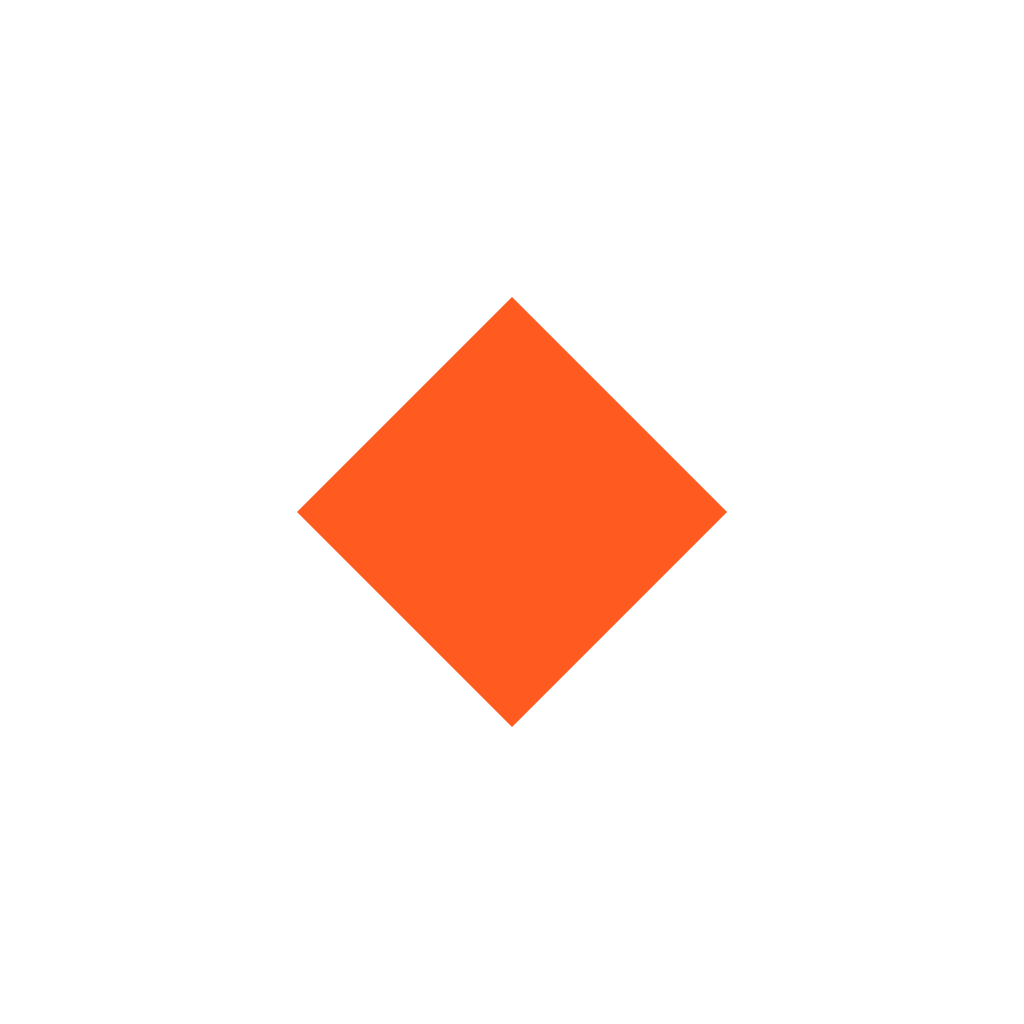
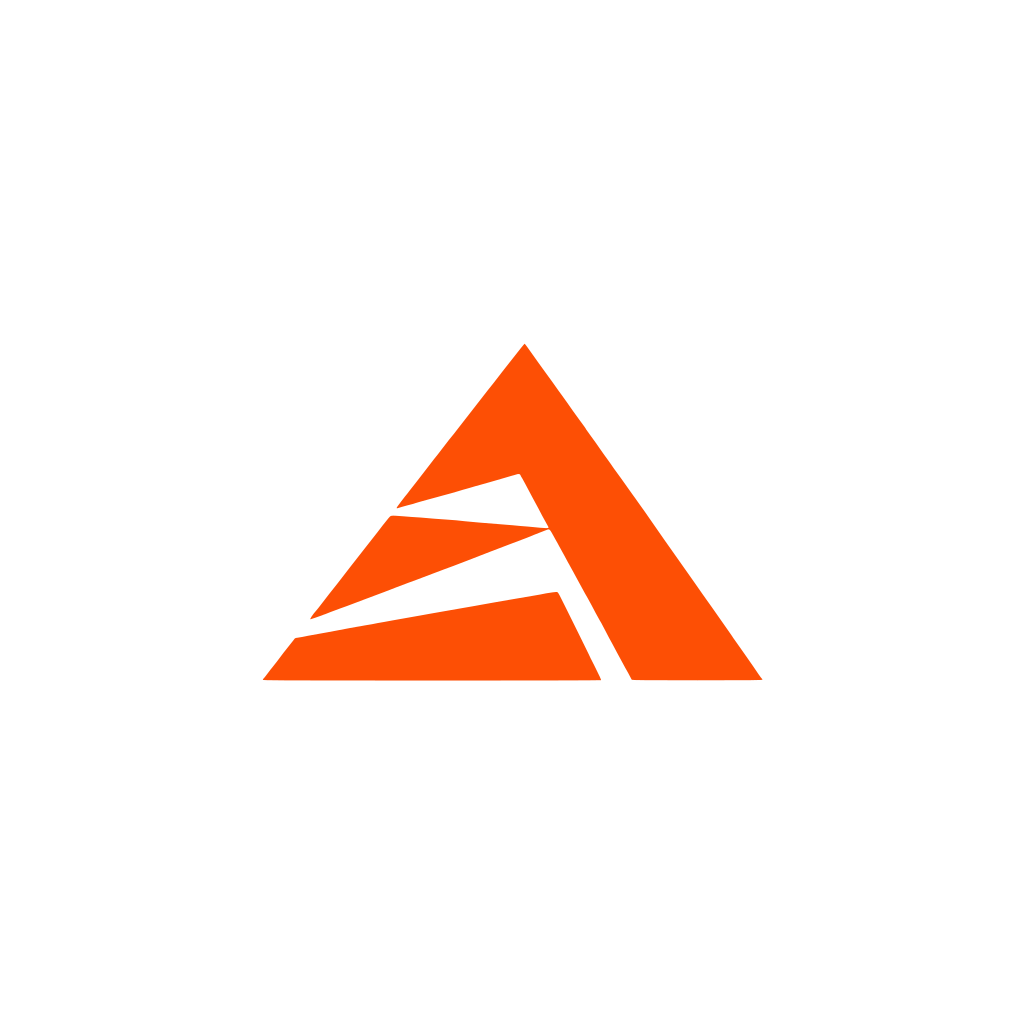
App nas lojas: nome Groscove Ultra e ícones da marca oficial
Decisão do responsável (30/10/2026): o app aparece nas lojas como "Groscove Ultra", o mesmo nome
da web (slug do EAS groscove-ultra, ainda antes do eas init). Ícone, adaptive icon, splash,
ícone de notificação e ficha do Google Play agora saem dos SVGs oficiais em docs/brand/, com o
mesmo fundo dos ícones da web. O esquema gchero:// e o marcador GCHeroApp do user agent são
internos e ficam.

Claude-Session: https://claude.ai/code/session_014zpciBbkBWGYkxepfYQZmJ

Changed region(s): [[0.25, 0.2812, 0.75, 0.7188]]

diff --git a/mobile/app.config.ts b/mobile/app.config.ts
@@ -2,13 +2,13 @@ import { existsSync } from "node:fs";
 import path from "node:path";
 import type { ConfigContext, ExpoConfig } from "expo/config";
 
-// Casca das lojas do GC Hero: a web de produção numa WebView, com login nativo (Google pelo navegador
+// Casca das lojas do Groscove Ultra: a web de produção numa WebView, com login nativo (Google pelo navegador
 // do sistema, Sign in with Apple), compartilhar do sistema e tela própria sem conexão.
 // Decisões e lições do Quantso: ../docs/decisions/app-nas-lojas.md. Publicação: ../docs/lojas.md.
 
 // Irreversível depois do primeiro envio a qualquer loja (Apple e Google não deixam trocar).
 const APP_ID = "com.groscove.ultra";
-// Endereço da web que a casca abre; muda com o domínio da marca GC Hero (EAS env por perfil).
+// Endereço da web que a casca abre; muda com o domínio definitivo (EAS env por perfil).
 const WEB_URL = process.env.EXPO_PUBLIC_WEB_URL ?? "https://ultra-hero.vercel.app";
 // Preenchidos depois do `eas init` na conta Expo do Quantso (não são segredo; ficam no código porque o
 // EAS resolve esta config na máquina de quem roda `eas build`, antes de ler as variáveis da nuvem).
@@ -16,7 +16,8 @@ const WEB_URL = process.env.EXPO_PUBLIC_WEB_URL ?? "https://ultra-hero.vercel.ap
 const EAS_PROJECT_ID: string | undefined = undefined;
 const EXPO_OWNER: string | undefined = undefined;
 
-const OBSIDIAN = "#0B0B0B";
+// mesmo fundo dos ícones da web (public/icons)
+const OBSIDIAN = "#111111";
 const ORANGE = "#FF5A1F";
 
 // Push no Android passa pelo FCM: sem o google-services.json do projeto Firebase o build fica verde
@@ -30,8 +31,8 @@ if (process.env.EAS_BUILD_PROFILE === "production" && !hasGoogleServices) {
 
 export default ({ config }: ConfigContext): ExpoConfig => ({
   ...config,
-  name: "GC Hero",
-  slug: "gc-hero",
+  name: "Groscove Ultra",
+  slug: "groscove-ultra",
   ...(EXPO_OWNER ? { owner: EXPO_OWNER } : {}),
   scheme: "gchero",
   // versão que a pessoa vê; o número do build vem do EAS (appVersionSource remote)
@@ -51,9 +52,9 @@ export default ({ config }: ConfigContext): ExpoConfig => ({
     config: { usesNonExemptEncryption: false },
     infoPlist: {
       // o <input type="file"> da web (foto de perfil, post, receita) abre câmera e fotos
-      NSCameraUsageDescription: "O GC Hero usa a câmera quando você escolhe tirar uma foto para o perfil ou para um post.",
-      NSPhotoLibraryUsageDescription: "O GC Hero acessa suas fotos quando você escolhe uma imagem para o perfil ou para um post.",
-      NSMicrophoneUsageDescription: "O GC Hero usa o microfone quando você grava um vídeo para um post.",
+      NSCameraUsageDescription: "O Groscove Ultra usa a câmera quando você escolhe tirar uma foto para o perfil ou para um post.",
+      NSPhotoLibraryUsageDescription: "O Groscove Ultra acessa suas fotos quando você escolhe uma imagem para o perfil ou para um post.",
+      NSMicrophoneUsageDescription: "O Groscove Ultra usa o microfone quando você grava um vídeo para um post.",
     },
     // A casca não coleta dado próprio; os rótulos de privacidade da loja descrevem o que a web coleta.
     // Razões das APIs exigidas pela Apple desde 05/2024 (UserDefaults e data de arquivo, usadas pelo RN).

diff --git a/mobile/src/strings.ts b/mobile/src/strings.ts
@@ -4,17 +4,17 @@ export type Strings = { offlineTitle: string; offlineBody: string; retry: string
 const STRINGS: Record<"pt-BR" | "en" | "es", Strings> = {
   "pt-BR": {
     offlineTitle: "Sem conexão",
-    offlineBody: "Não foi possível abrir o GC Hero. Confira a internet e tente de novo.",
+    offlineBody: "Não foi possível abrir o Groscove Ultra. Confira a internet e tente de novo.",
     retry: "Tentar de novo",
   },
   en: {
     offlineTitle: "No connection",
-    offlineBody: "We couldn't open GC Hero. Check your internet connection and try again.",
+    offlineBody: "We couldn't open Groscove Ultra. Check your internet connection and try again.",
     retry: "Try again",
   },
   es: {
     offlineTitle: "Sin conexión",
-    offlineBody: "No pudimos abrir GC Hero. Revisa tu conexión a internet e inténtalo de nuevo.",
+    offlineBody: "No pudimos abrir Groscove Ultra. Revisa tu conexión a internet e inténtalo de nuevo.",
     retry: "Reintentar",
   },
 };

diff --git a/src/lib/legal/entity.ts b/src/lib/legal/entity.ts
@@ -1,4 +1,4 @@
-// Quem responde pelo GC Hero — num lugar só. Termos de Uso e Política de Privacidade repetem estes
+// Quem responde pelo Groscove Ultra — num lugar só. Termos de Uso e Política de Privacidade repetem estes
 // dados em vários pontos ({company}, {cnpj}, {address}, {email}, {dpo}, {app} nas mensagens legal.json);
 // espalhados, o dia em que algo mudar deixa metade certa e metade errada.
 // Decisão do responsável (30/10/2026): a mesma empresa do Quantso, e o mesmo contato responde como
@@ -6,7 +6,7 @@
 // contra o CNPJ (lição do Quantso, attilasm/quantso apps/web/src/lib/identidade-legal.ts).
 
 export const LEGAL_ENTITY = {
-  app: "GC Hero",
+  app: "Groscove Ultra",
   company: "QUANTSO TRANSPORTE LOGISTICA LTDA",
   cnpj: "35.176.948/0001-87",
   address: "Rua Jardim Federação, 439, sala 07 — Condomínio Estúdio Centro, Federação, Salvador/BA, CEP 40231-060",

diff --git a/tests/unit/push-message.test.ts b/tests/unit/push-message.test.ts
@@ -13,7 +13,7 @@ describe("buildPushMessage", () => {
 
   it("post sem título usa o texto genérico", () => {
     const event: PushEvent = { kind: "hero_post", hero: "Anitta", contentTitle: "  ", contentSlug: "x" };
-    expect(buildPushMessage(event, "en", messages("en")).body).toBe("There's a new post from Anitta on GC Hero.");
+    expect(buildPushMessage(event, "en", messages("en")).body).toBe("There's a new post from Anitta on Groscove Ultra.");
   });
 
   it("conquista, programa e sequência nos três idiomas", () => {

diff --git a/mobile/src/push.ts b/mobile/src/push.ts
@@ -21,7 +21,7 @@ function ensureAndroidChannel() {
   if (Platform.OS !== "android") return Promise.resolve();
   // o servidor manda channelId "default" (src/lib/push/dispatch.ts)
   channelReady ??= Notifications.setNotificationChannelAsync("default", {
-    name: "GC Hero",
+    name: "Groscove Ultra",
     importance: Notifications.AndroidImportance.DEFAULT,
   }).then(() => undefined);
   return channelReady;

diff --git a/docs/lojas.md b/docs/lojas.md
@@ -1,6 +1,6 @@
 # Publicação nas lojas — App Store e Google Play
 
-Roteiro do app **GC Hero** (`mobile/`, identificador `com.groscove.ultra`). O porquê de cada escolha
+Roteiro do app **Groscove Ultra** (`mobile/`, identificador `com.groscove.ultra`). O porquê de cada escolha
 está em [`decisions/app-nas-lojas.md`](decisions/app-nas-lojas.md). Os passos marcados **(dono)**
 pedem conta, pagamento ou assinatura de quem responde pela empresa; o resto é do time.
 
@@ -10,14 +10,14 @@ pedem conta, pagamento ou assinatura de quem responde pela empresa; o resto é d
   (30/10/2026). Depois do primeiro envio ele não muda em nenhuma das lojas.
 - [ ] **(dono)** App **gratuito** nas duas lojas (no Google, gratuito → pago não volta).
 - [ ] Domínio e marca: `EXPO_PUBLIC_WEB_URL` aponta para a web (hoje `https://ultra-hero.vercel.app`).
-  Trocar o nome da web para GC Hero antes do envio (a Apple confere nome do app × conteúdo).
+  O nome do app (Groscove Ultra) é o mesmo da web.
 
 ## 1. Contas
 
 | Conta | Situação | O que fazer |
 |---|---|---|
 | Expo (EAS) | a do Quantso | `cd mobile && npx eas-cli login && npx eas-cli init` → copie o `projectId` e a conta para `EAS_PROJECT_ID` e `EXPO_OWNER` em `mobile/app.config.ts` e commite |
-| Google Play Console | organização (Quantso) | criar o app "GC Hero" na mesma conta; conta de organização **não** tem a regra dos 12 testadores por 14 dias |
+| Google Play Console | organização (Quantso) | criar o app "Groscove Ultra" na mesma conta; conta de organização **não** tem a regra dos 12 testadores por 14 dias |
 | Apple Developer | pessoal | **(dono)** US$ 99/ano; criar o app no App Store Connect com o bundle `com.groscove.ultra`; habilitar **Sign in with Apple** no identificador (Certificates, Identifiers & Profiles) |
 
 ## 2. Configuração do projeto EAS
@@ -103,7 +103,7 @@ Roteiro mínimo, nas duas plataformas, contra o endereço de produção:
 
 - **Ficha**: ícone 512 (`mobile/assets/store-icon-512.png`), feature graphic 1024×500
   (`mobile/assets/feature-graphic-1024x500.png`), capturas do app **das lojas** (sem comércio). Os
-  dois arquivos são provisórios até a marca GC Hero: `npm run assets` em `mobile/` regenera.
+  dois arquivos são gerados da marca em `docs/brand/`: `npm run assets` em `mobile/` regenera.
   Capturas que o revisor não consegue alcançar com a conta demo contam como propaganda enganosa.
 - **Acesso ao app**: conta demo com e-mail e senha (o revisor está fora do Brasil). Nota em inglês
   (§8). Garantir que a conta tem os conteúdos que as capturas mostram.
@@ -141,7 +141,7 @@ Roteiro mínimo, nas duas plataformas, contra o endereço de produção:
 
 ## 8. Nota ao revisor (modelo, em inglês)
 
-> GC Hero is a fitness, nutrition and cooking companion featuring content from real athletes and
+> Groscove Ultra is a fitness, nutrition and cooking companion featuring content from real athletes and
 > chefs, used under license (agreements attached). Sign in with the demo account below, or create
 > an account with Sign in with Apple / Google. There are no purchases in the app: all content shown
 > is included. Account deletion: Profile › Account & privacy › Delete my account (please use an

diff --git a/docs/decisions/app-nas-lojas.md b/docs/decisions/app-nas-lojas.md
@@ -1,7 +1,7 @@
 # App nas lojas (App Store e Google Play): casca Expo sobre a web
 
-Decisões do responsável (30/10/2026): publicar o GC Hero na App Store e no Google Play **mantendo a
-versão web**; arquitetura de casca Expo + WebView; identificador `com.groscove.ultra` (trocado de `com.gchero.com` antes do primeiro envio, 30/10/2026); nome **GC Hero**;
+Decisões do responsável (30/10/2026): publicar o Groscove Ultra na App Store e no Google Play **mantendo a
+versão web**; arquitetura de casca Expo + WebView; identificador `com.groscove.ultra` (trocado de `com.gchero.com` antes do primeiro envio, 30/10/2026); nome **Groscove Ultra** (antes previsto como GC Hero);
 no app das lojas, comércio e assinaturas simuladas ficam **ocultos**. Contas: Apple Developer
 **pessoal**, Google Play de **organização** (a do Quantso), Expo do Quantso.
 
@@ -90,8 +90,8 @@ Health Connect (o "relógio real" hoje é só por API das marcas).
   conexão, gestos e voltar do sistema, e push nativo (posts de heróis favoritos, conquistas).
 - **Apple 5.2.1 (pessoas reais)**: nomes e fotos de Neymar, Medina, Fonseca, Anitta, Ronaldinho e
   Jacquin exigem prova de direito de uso; os contratos vão em anexo na nota ao revisor.
-- **Nome**: a loja diz "GC Hero" e a web ainda diz "Groscove Ultra". Trocar a marca da web antes do
-  primeiro envio evita "app não corresponde à ficha".
+- **Nome**: "Groscove Ultra" na loja e na web (decisão do responsável, 30/10/2026). O identificador
+  `com.groscove.ultra` e o esquema interno `gchero://` não aparecem para a pessoa.
 - **Conta Apple pessoal**: a ficha mostra o nome da pessoa como vendedor; dá para transferir o app
   para uma conta de organização depois (Apple permite transferência).
 

diff --git a/README.md b/README.md
@@ -9,7 +9,7 @@ Stack aprovada: **Next.js 15 + TypeScript** · **Supabase** (Postgres/RLS/Auth/S
 - Privacidade/retenção: [`docs/privacy-and-retention.md`](docs/privacy-and-retention.md)
 - Checklist de lançamento: [`docs/launch-checklist.md`](docs/launch-checklist.md)
 
-## App nas lojas (GC Hero)
+## App nas lojas (Groscove Ultra)
 
 A mesma web vai para a App Store e o Google Play numa casca Expo em [`mobile/`](mobile/README.md): no app, comércio, planos e textos de demonstração não aparecem, o login usa Google pelo navegador do sistema e Sign in with Apple, e há push para posts de heróis favoritos, conquistas, programas concluídos e lembrete de sequência ([`docs/decisions/push-notifications.md`](docs/decisions/push-notifications.md)). Decisão: [`docs/decisions/app-nas-lojas.md`](docs/decisions/app-nas-lojas.md). Roteiro de publicação: [`docs/lojas.md`](docs/lojas.md).
 

diff --git a/mobile/README.md b/mobile/README.md
@@ -1,4 +1,4 @@
-# GC Hero — app das lojas (casca Expo)
+# Groscove Ultra — app das lojas (casca Expo)
 
 A web de produção numa WebView, com login nativo (Google pelo navegador do sistema, Sign in with
 Apple), compartilhar do sistema e tela própria sem conexão. Por que assim:
@@ -9,7 +9,7 @@ Apple), compartilhar do sistema e tela própria sem conexão. Por que assim:
 npm ci
 npm run check            # typecheck + testes + permissões do manifest final do Android
 npx expo start           # Expo Go não tem Sign in with Apple; use um development build (eas build --profile development)
-npm run assets           # regenera ícones/splash/ficha (provisórios até a marca GC Hero)
+npm run assets           # regenera ícones/splash/ficha (gerados da marca em `docs/brand/`)
 ```
 
 `EXPO_PUBLIC_WEB_URL` escolhe a web que a casca abre (padrão: produção). Para apontar para o

diff --git a/docs/decisions/push-notifications.md b/docs/decisions/push-notifications.md
@@ -1,6 +1,6 @@
 # Push no app das lojas
 
-Decisão do responsável (30/10/2026): o app GC Hero avisa por push sobre **posts novos de heróis
+Decisão do responsável (30/10/2026): o app Groscove Ultra avisa por push sobre **posts novos de heróis
 favoritados** e outros momentos que valem um aviso. O agente escolheu os outros casos, registrados
 aqui: **conquista desbloqueada** (inclui as metas de sequência e de conteúdos concluídos, que são
 conquistas no banco), **programa concluído** e **lembrete de sequência**.
